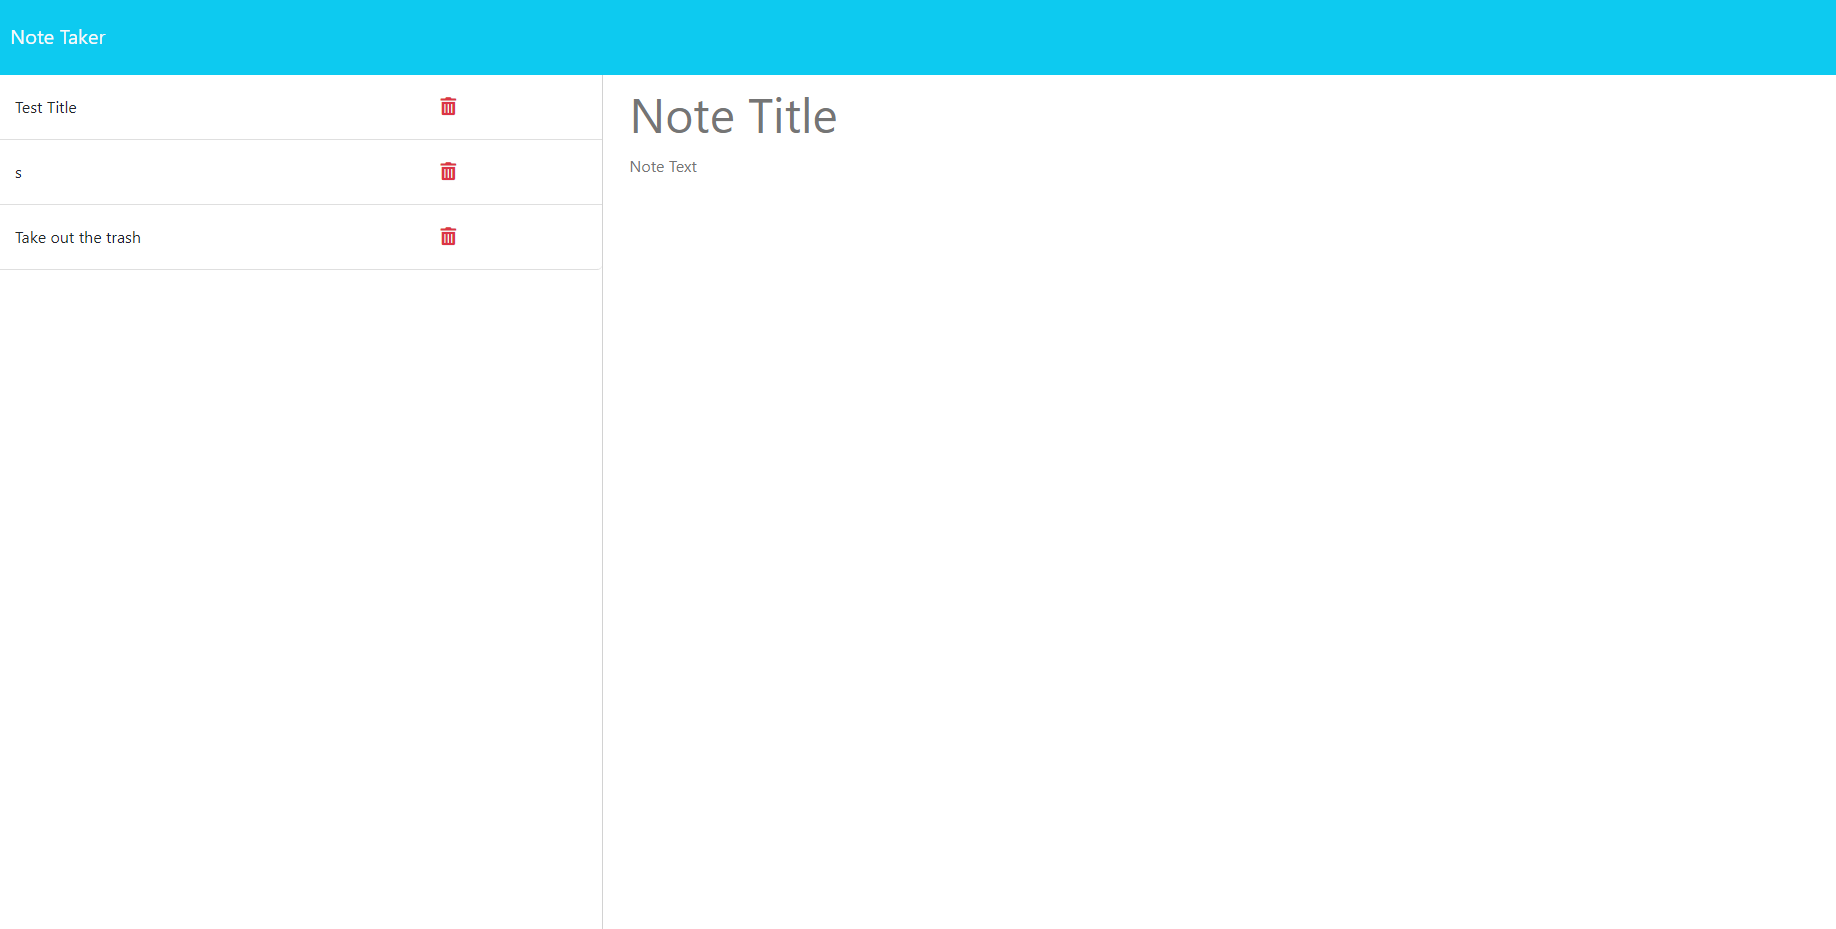
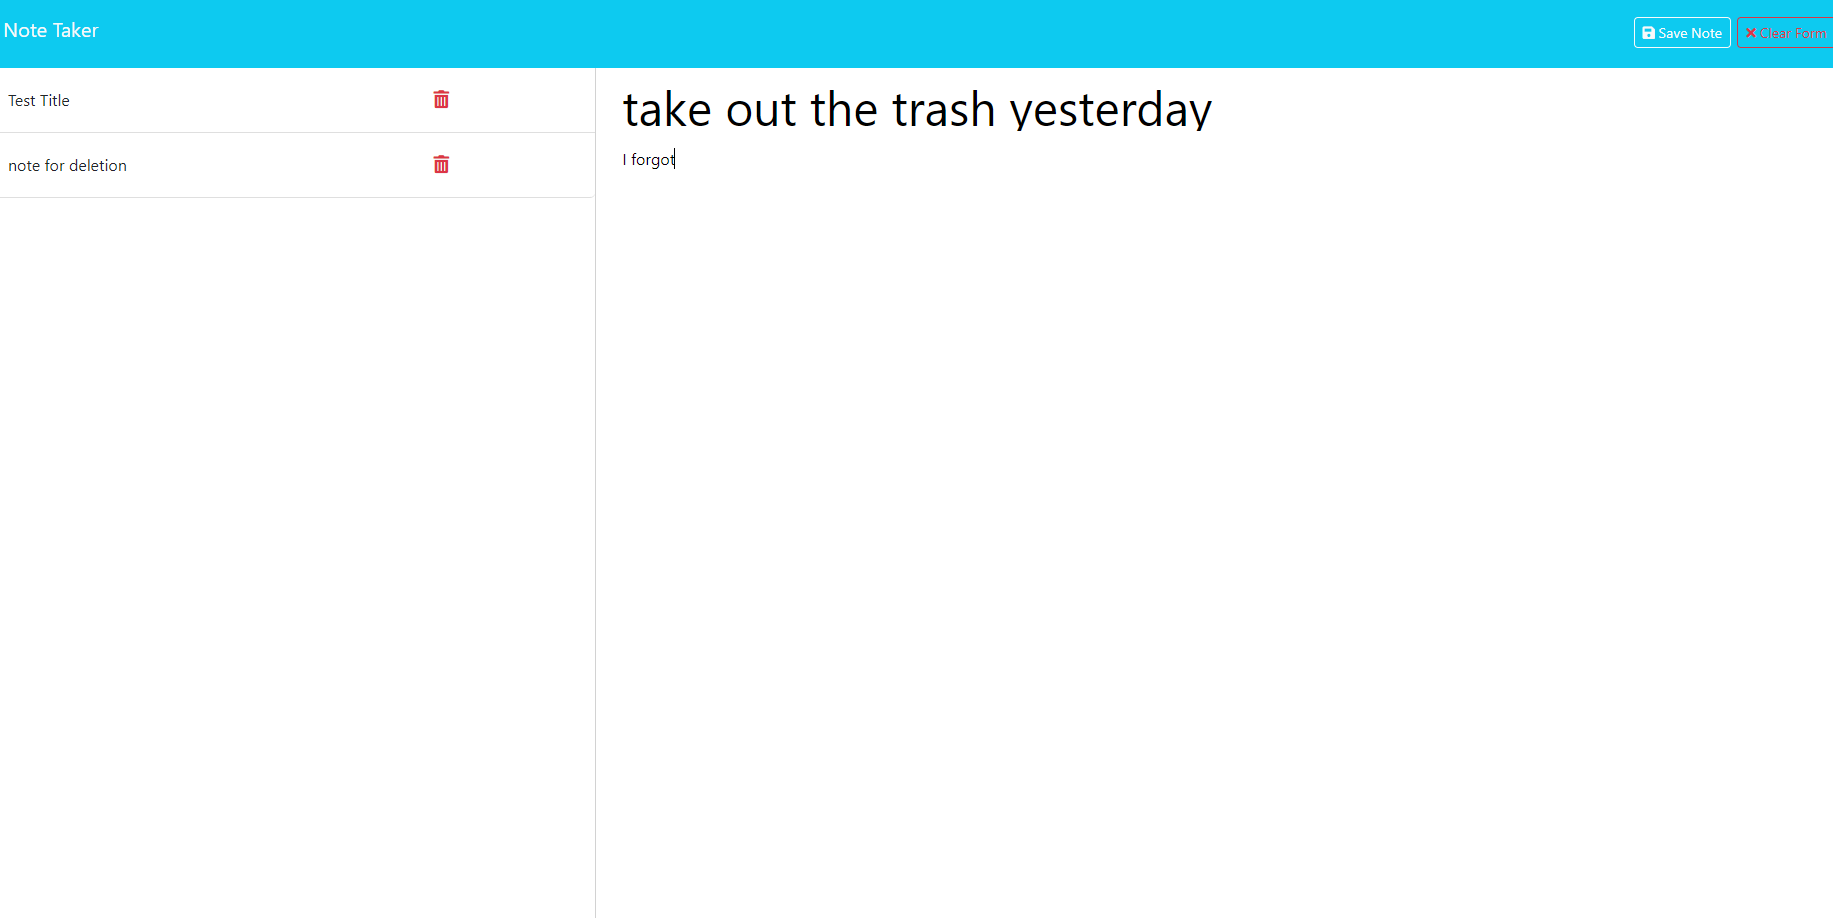
added the delete function to delete notes and retouched the readme file

diff --git a/routes/apiRoutes.js b/routes/apiRoutes.js
@@ -1,16 +1,19 @@
 //dependencies
 const path = require('path');
 const fs = require('fs');
+const uniqid = require('uniqid');
+
+//easier to put paths instead of repeating it over and over
+const dbPath = path.join(__dirname, '../db/db.json');
 
 // reads the db.json file and returns all saved notes as json
 module.exports = (app) => {
     app.get('/api/notes', (req, res) => {
-        res.sendFile(path.join(__dirname, '../db/db.json'));
+        res.sendFile(dbPath);
     });
 
     //adds notes to the db json and posts them
     app.post('/api/notes', (req, res) => {
-        const dbPath = path.join(__dirname, '../db/db.json');
         //debugging
         fs.readFile(dbPath, 'utf8', (err, data) => {
             if(err) {
@@ -19,10 +22,11 @@ module.exports = (app) => {
                 return;
             }
             const db = JSON.parse(data);
-            //the notes body
+            //the notes body, the id property makes a unique id for each new note
             let userNote = {
                 title: req.body.title,
                 text: req.body.text,
+                id: uniqid(),
             };
     
             //adds new notes
@@ -39,5 +43,26 @@ module.exports = (app) => {
             res.json(db);
             });
         }); 
+    });
+    //delete the posted notes
+    app.delete('/api/notes/:id', (req, res) => {
+        //error handling
+        fs.readFile(dbPath, 'utf8', (err, data) => {
+            if (err) {
+                console.error(err);
+                return res.status(500).json({ error: 'Failed to read data from the database.' });
+            }
+            let db = JSON.parse(data);
+            //filteres the notes to check which to delete
+            const deleteNotes = db.filter(item => item.id !== req.params.id);
+            //writes in the db the updated version if deleted while also handling errors
+            fs.writeFile(dbPath, JSON.stringify(deleteNotes), (err) => {
+                if (err) {
+                    console.error(err);
+                    return res.status(500).json({ error: 'Failed to write data to the database.' });
+                }
+                res.json(deleteNotes);
+            });
+        });
     });
 };

diff --git a/README.md b/README.md
@@ -8,12 +8,11 @@
 
 ## Usage
 
-    ![alt text](assets/Images/image.png)
+![screenshot](assets/Images/image.png)
 
+![screenshot2](assets/Images/image2.png)
 
-
-    ![alt text](assets/Images/image2.png)
-
+![screenshot3](assets/Images/image3.png)
 
 ## License
 -This Project is under the MIT license
